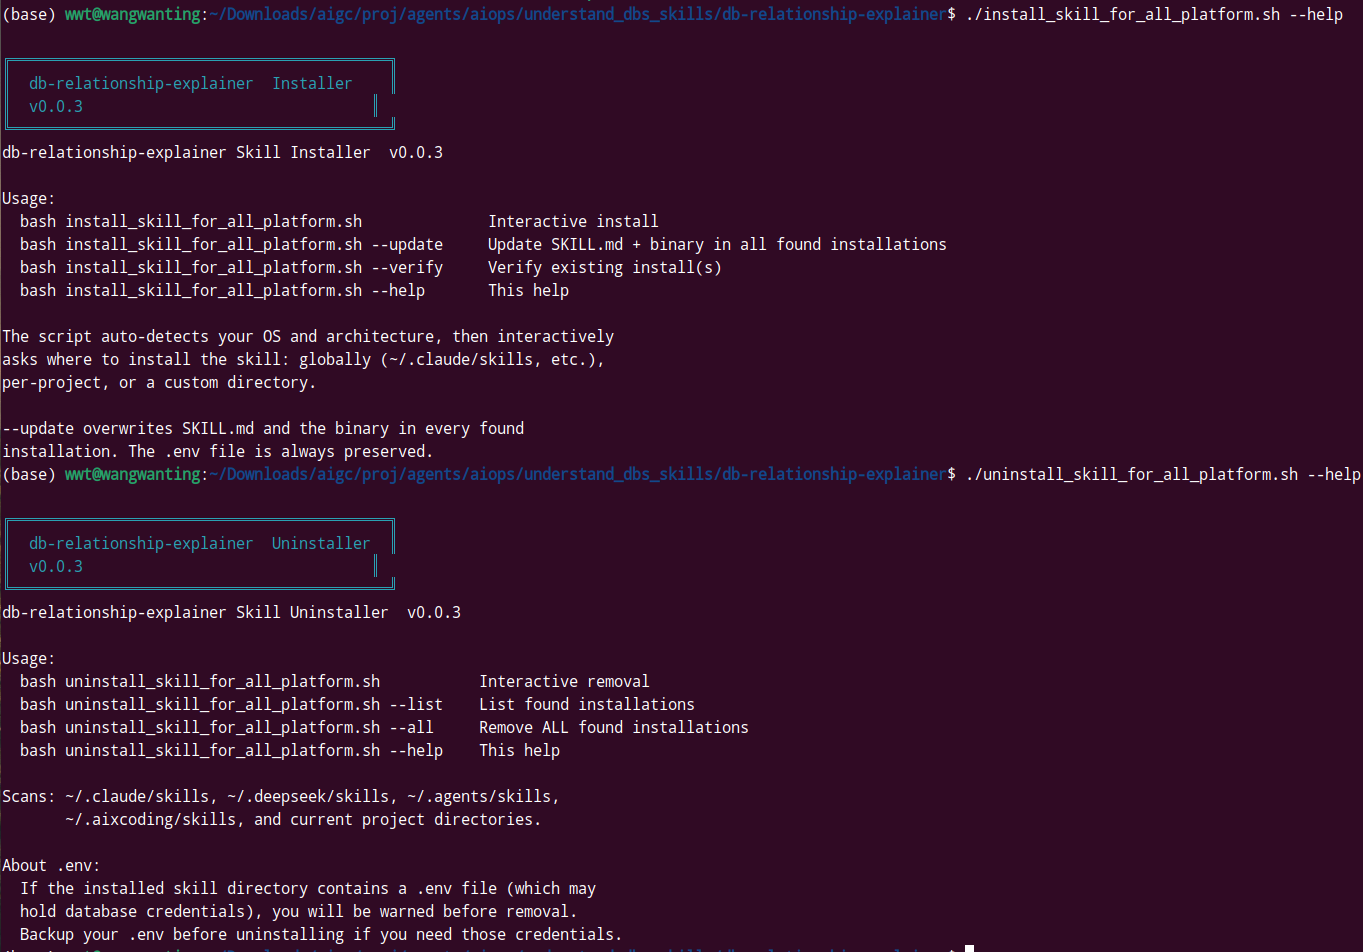
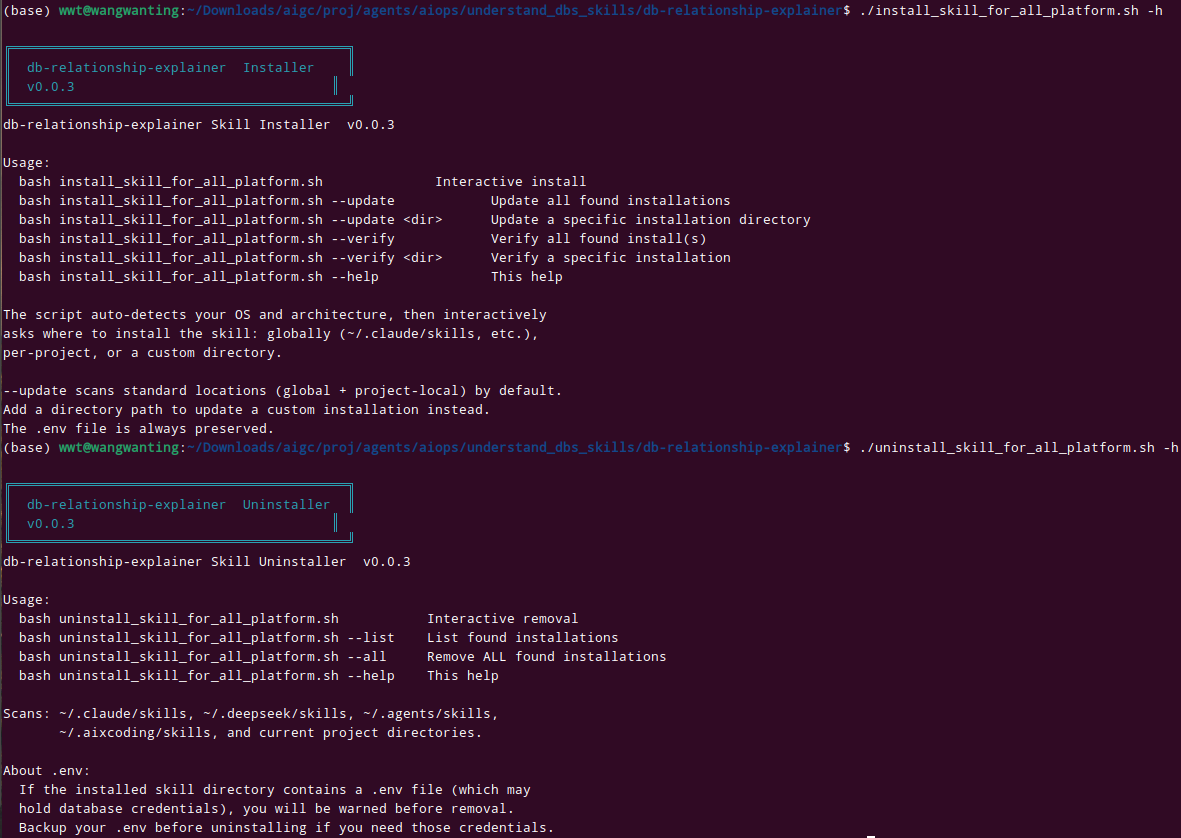
docs: add --update/--verify <dir> support for custom install locations
- install_skill_for_all_platform.sh: --update and --verify now accept
  optional directory argument for custom installation paths
- update_single_dir() validates target is a skill dir before writing
- README/CHANGELOG: document custom directory usage

diff --git a/CHANGELOG.md b/CHANGELOG.md
@@ -14,7 +14,7 @@
 - 单元测试覆盖：新增 `dsn/dsn_test.go`（ParseDSN + Redacted，25 用例）和 `schema/infer_test.go`（InferComment，30+ 用例）。
 - CI/CD 流水线：`.github/workflows/ci.yml`（go build / go vet / go test）。
 - 项目宪法 (`CONSTITUTION.md`) 和记忆文件 (`MEMORY.md`)。
-- Skill 一键安装/卸载脚本 (`db-relationship-explainer/install_skill_for_all_platform.sh`, `uninstall_skill_for_all_platform.sh`)：交互式安装到全局目录（`~/.claude/skills`、`~/.deepseek/skills`、`~/.agents/skills`、`~/.aixcoding/skills`）或项目本地目录，自动检测平台并选择对应二进制，支持全平台 symlink 共享安装。内置 `--verify` 闭环验证、`--update` 在线升级（保留 `.env`），安装/卸载全程 `.env` 凭据安全提示。
+- Skill 一键安装/卸载脚本 (`db-relationship-explainer/install_skill_for_all_platform.sh`, `uninstall_skill_for_all_platform.sh`)：交互式安装到全局目录（`~/.claude/skills`、`~/.deepseek/skills`、`~/.agents/skills`、`~/.aixcoding/skills`）或项目本地目录，自动检测平台并选择对应二进制，支持全平台 symlink 共享安装。内置 `--verify` [dir] 闭环验证、`--update` [dir] 在线升级（支持自定义目录，保留 `.env`），安装/卸载全程 `.env` 凭据安全提示。
 
 ### Fixed
 - 修复 ClickHouse `fetchCHSampleRow` 和 `queryRows` 双重追加 `FORMAT JSONCompact` 导致采样查询语法错误。

diff --git a/README.md b/README.md
@@ -317,7 +317,8 @@ bash install_skill_for_all_platform.sh --verify
 当 SKILL.md 或二进制有新版本时，一条命令更新所有已安装位置，`.env` 文件不会被覆盖：
 
 ```bash
-bash install_skill_for_all_platform.sh --update
+bash install_skill_for_all_platform.sh --update              # 扫描标准位置，全部更新
+bash install_skill_for_all_platform.sh --update /path/to/skills  # 更新指定目录
 ```
 
 ### 卸载
